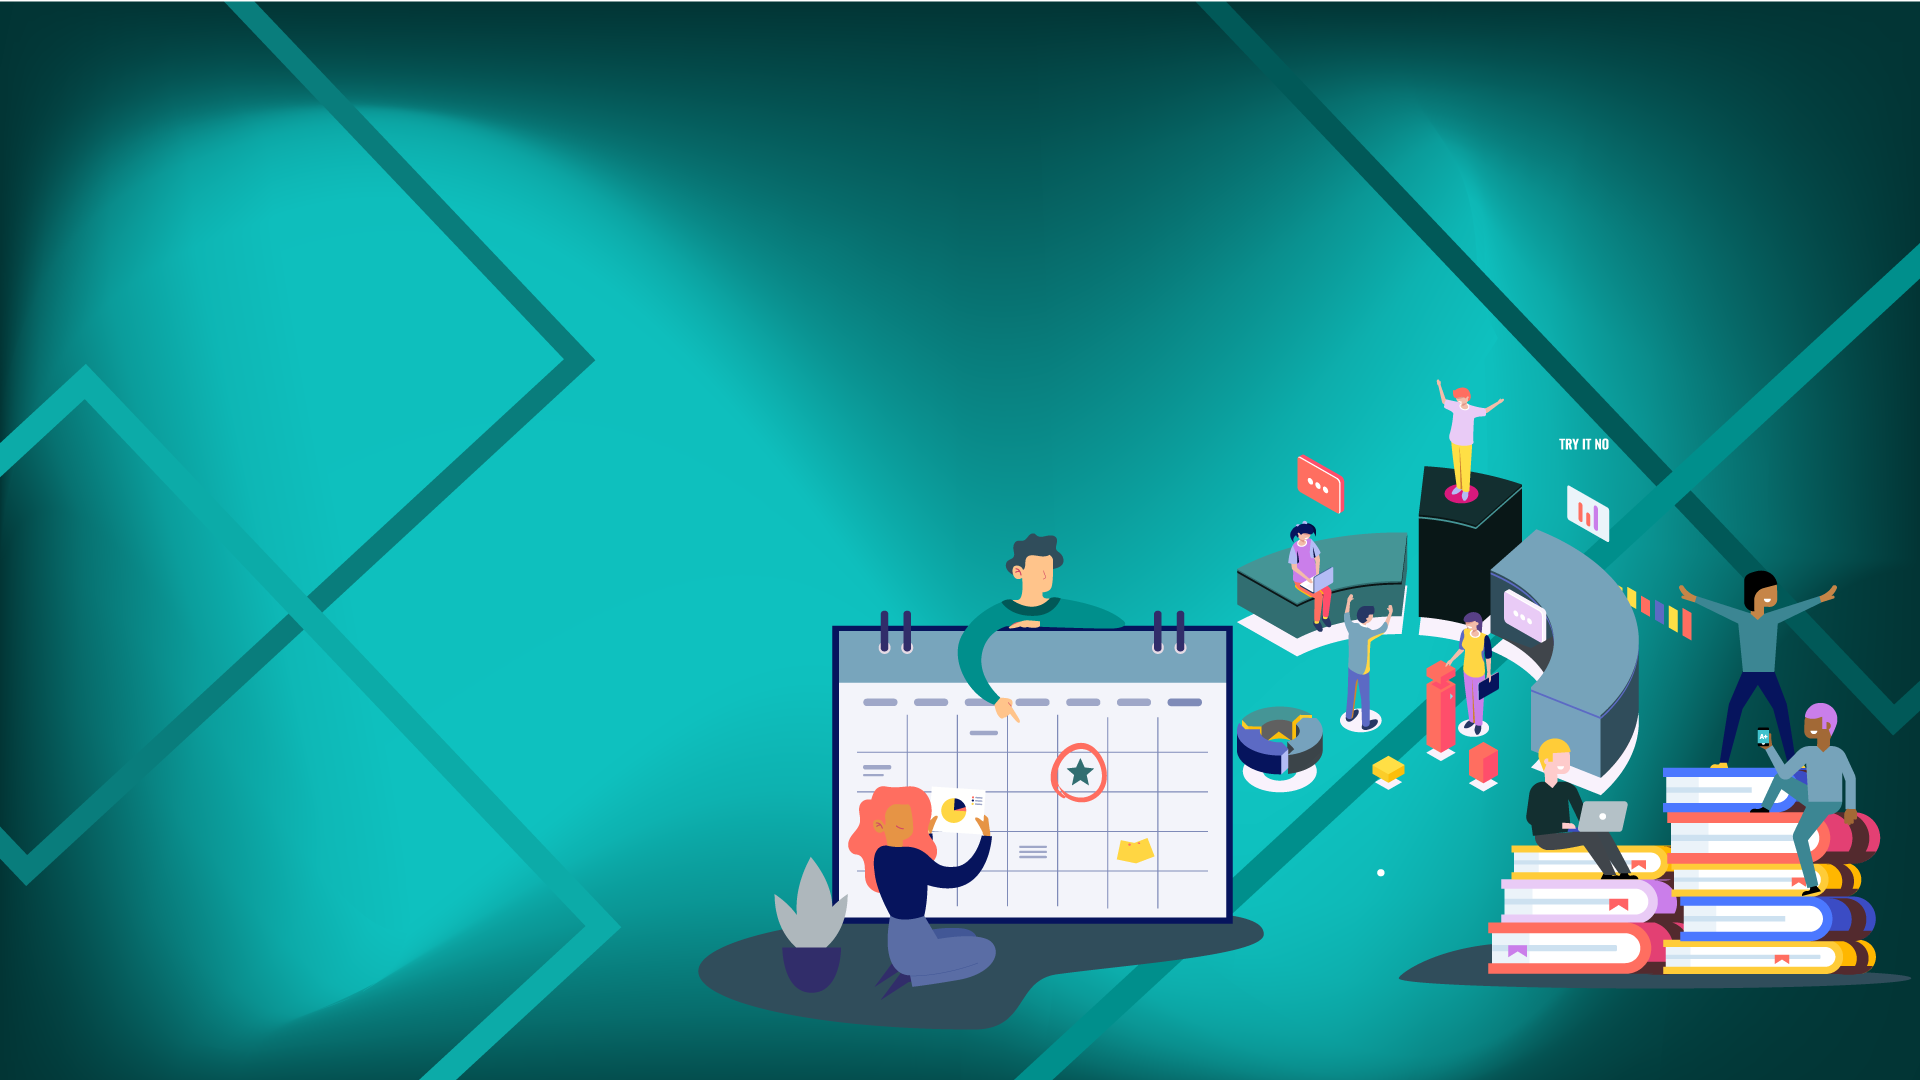
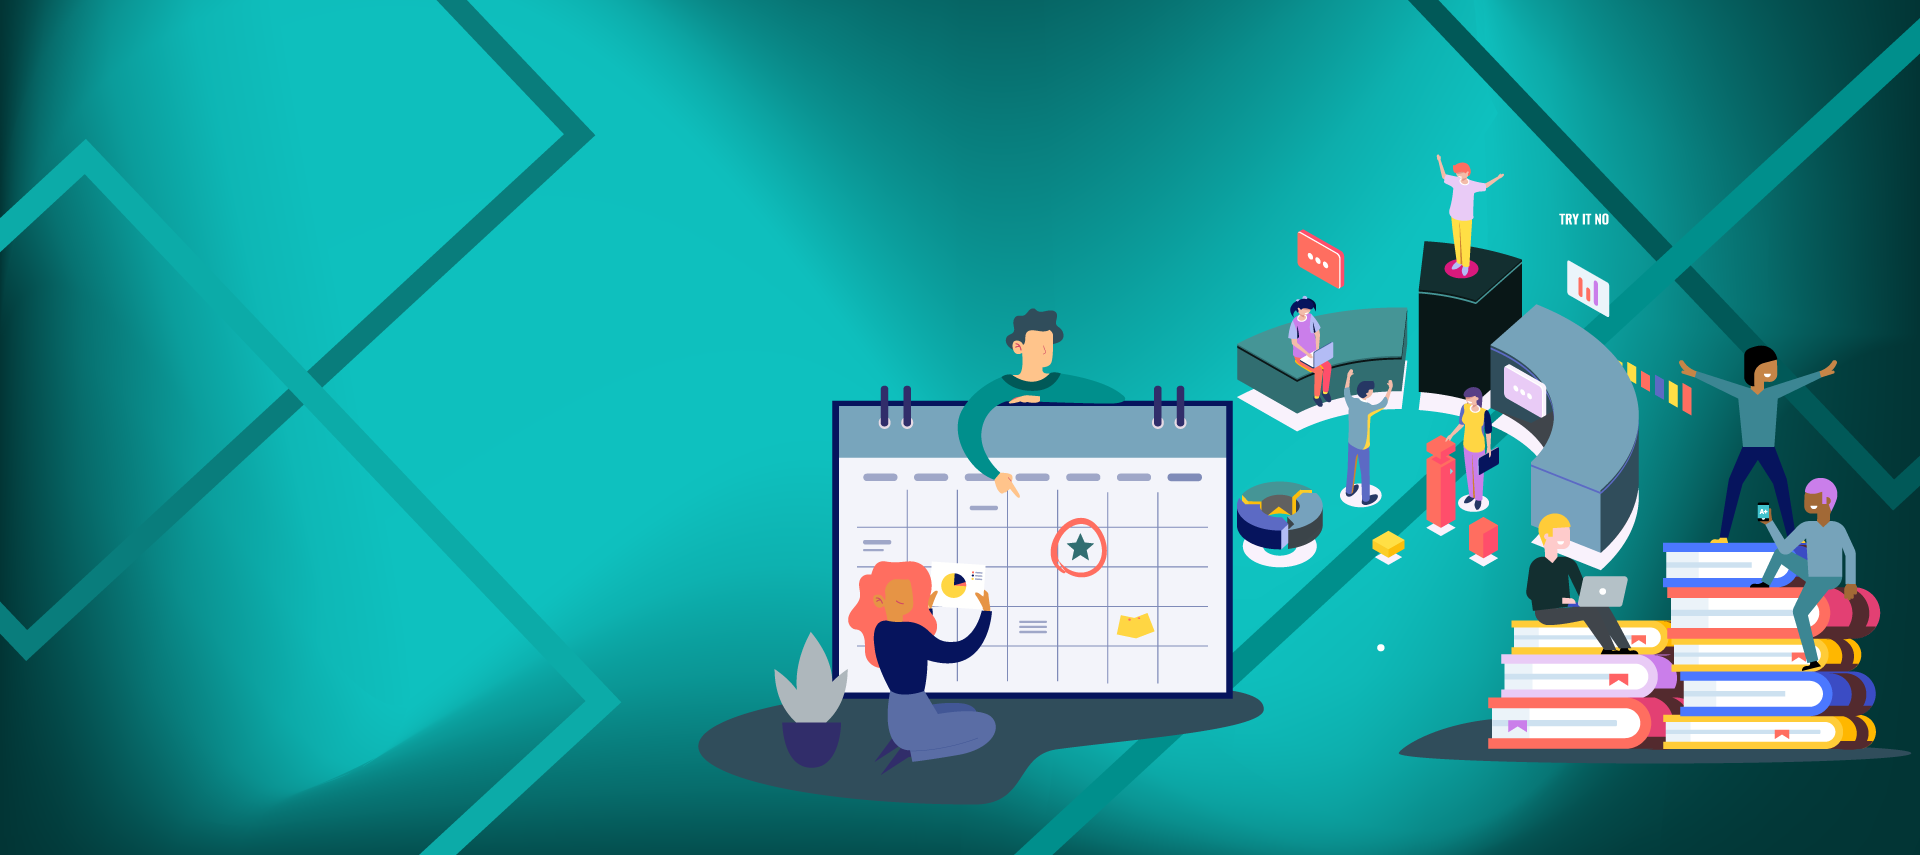
Background

diff --git a/Homepage/Homepage.css b/Homepage/Homepage.css
@@ -1,15 +1,8 @@
 /* Stilizimi i Navbarit */
 @import url('https://fonts.googleapis.com/css2?family=Poppins:wght@500&display=swap');/* importojna fondin */
-
-body{
-    background-color: #015958;
-   
- 
-}
 header{
     box-sizing: border-box;
     margin: 0;
-    padding: 0;
     background-color: #023535;
     display: flex;
     justify-content: space-between;
@@ -18,6 +11,10 @@ header{
     min-height: 100px;
    
 
+}
+body {
+    margin: 0;
+    width: 100%;
 }
 li,a,button{
     font-family: "Poppins", sans-serif;
@@ -65,12 +62,8 @@ button:hover{
 }
 /*Stilizimi per pjesen e home-contentit*/
 .home{
-    
-    background-image: url('Projekti\Homepage-background1.jpg') ;
+    background-image: url(background1.png);
     background-repeat: no-repeat;
-    background-size: cover;
-    background-position: center;
- 
     width: 100%;
     height: 100vh;
     display: flex;

diff --git a/Login/LogIn.css b/Login/LogIn.css
@@ -12,6 +12,7 @@ body {
     align-items: center;
     height: 100vh;
     overflow: hidden;
+    width: 100%;
 }
 
 .container {
